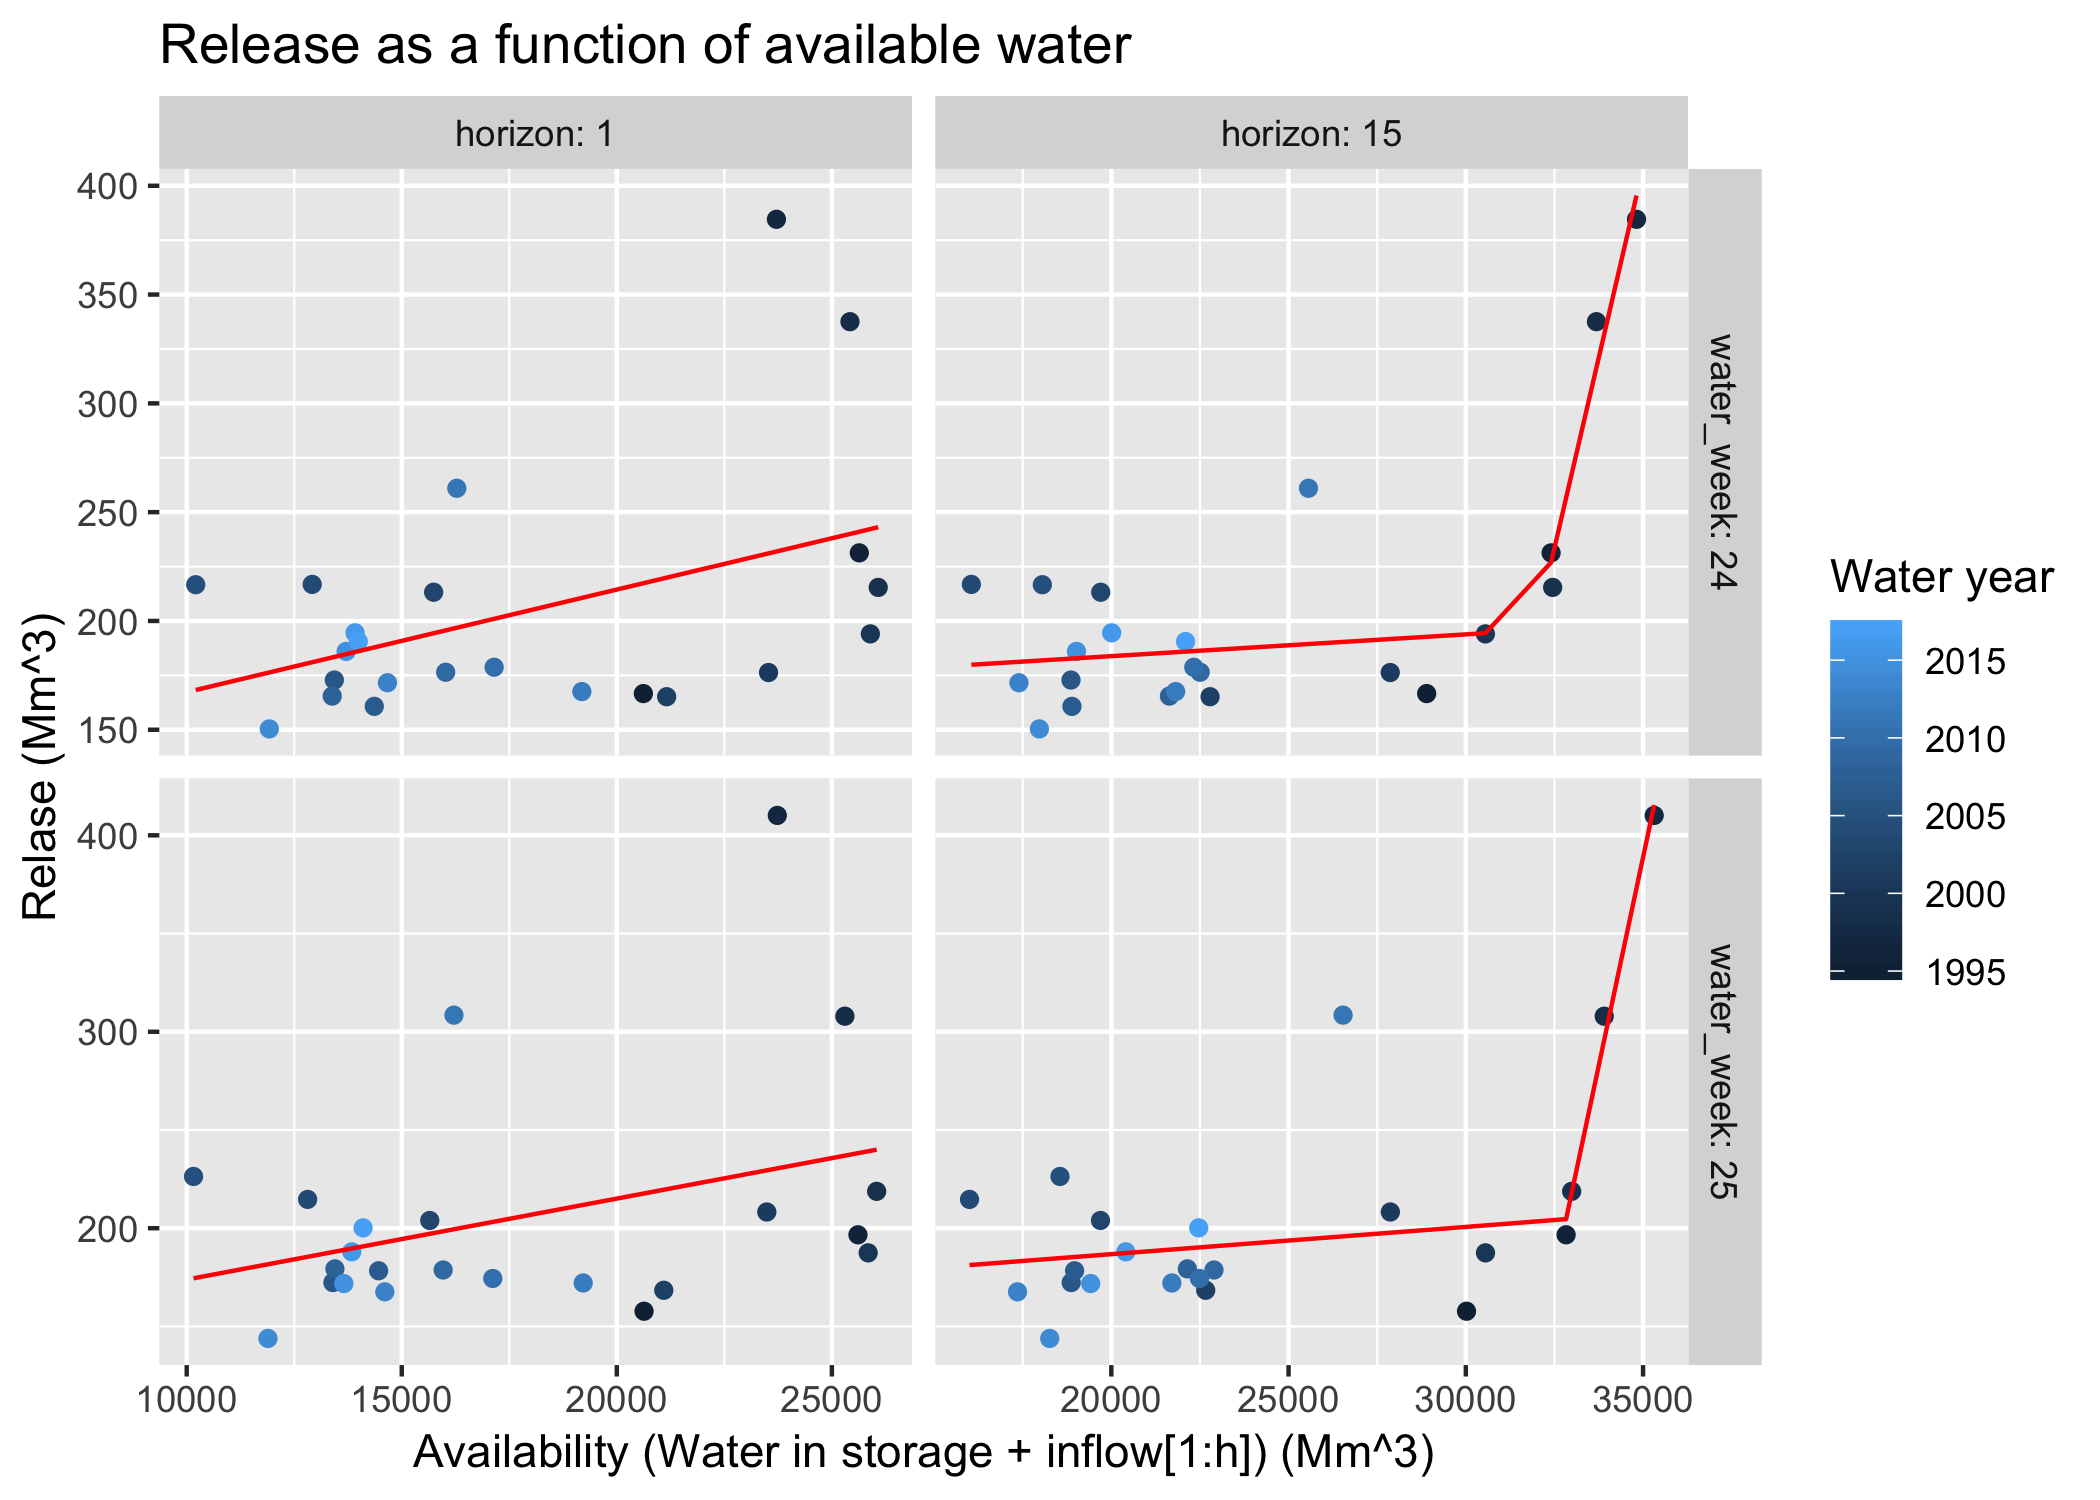
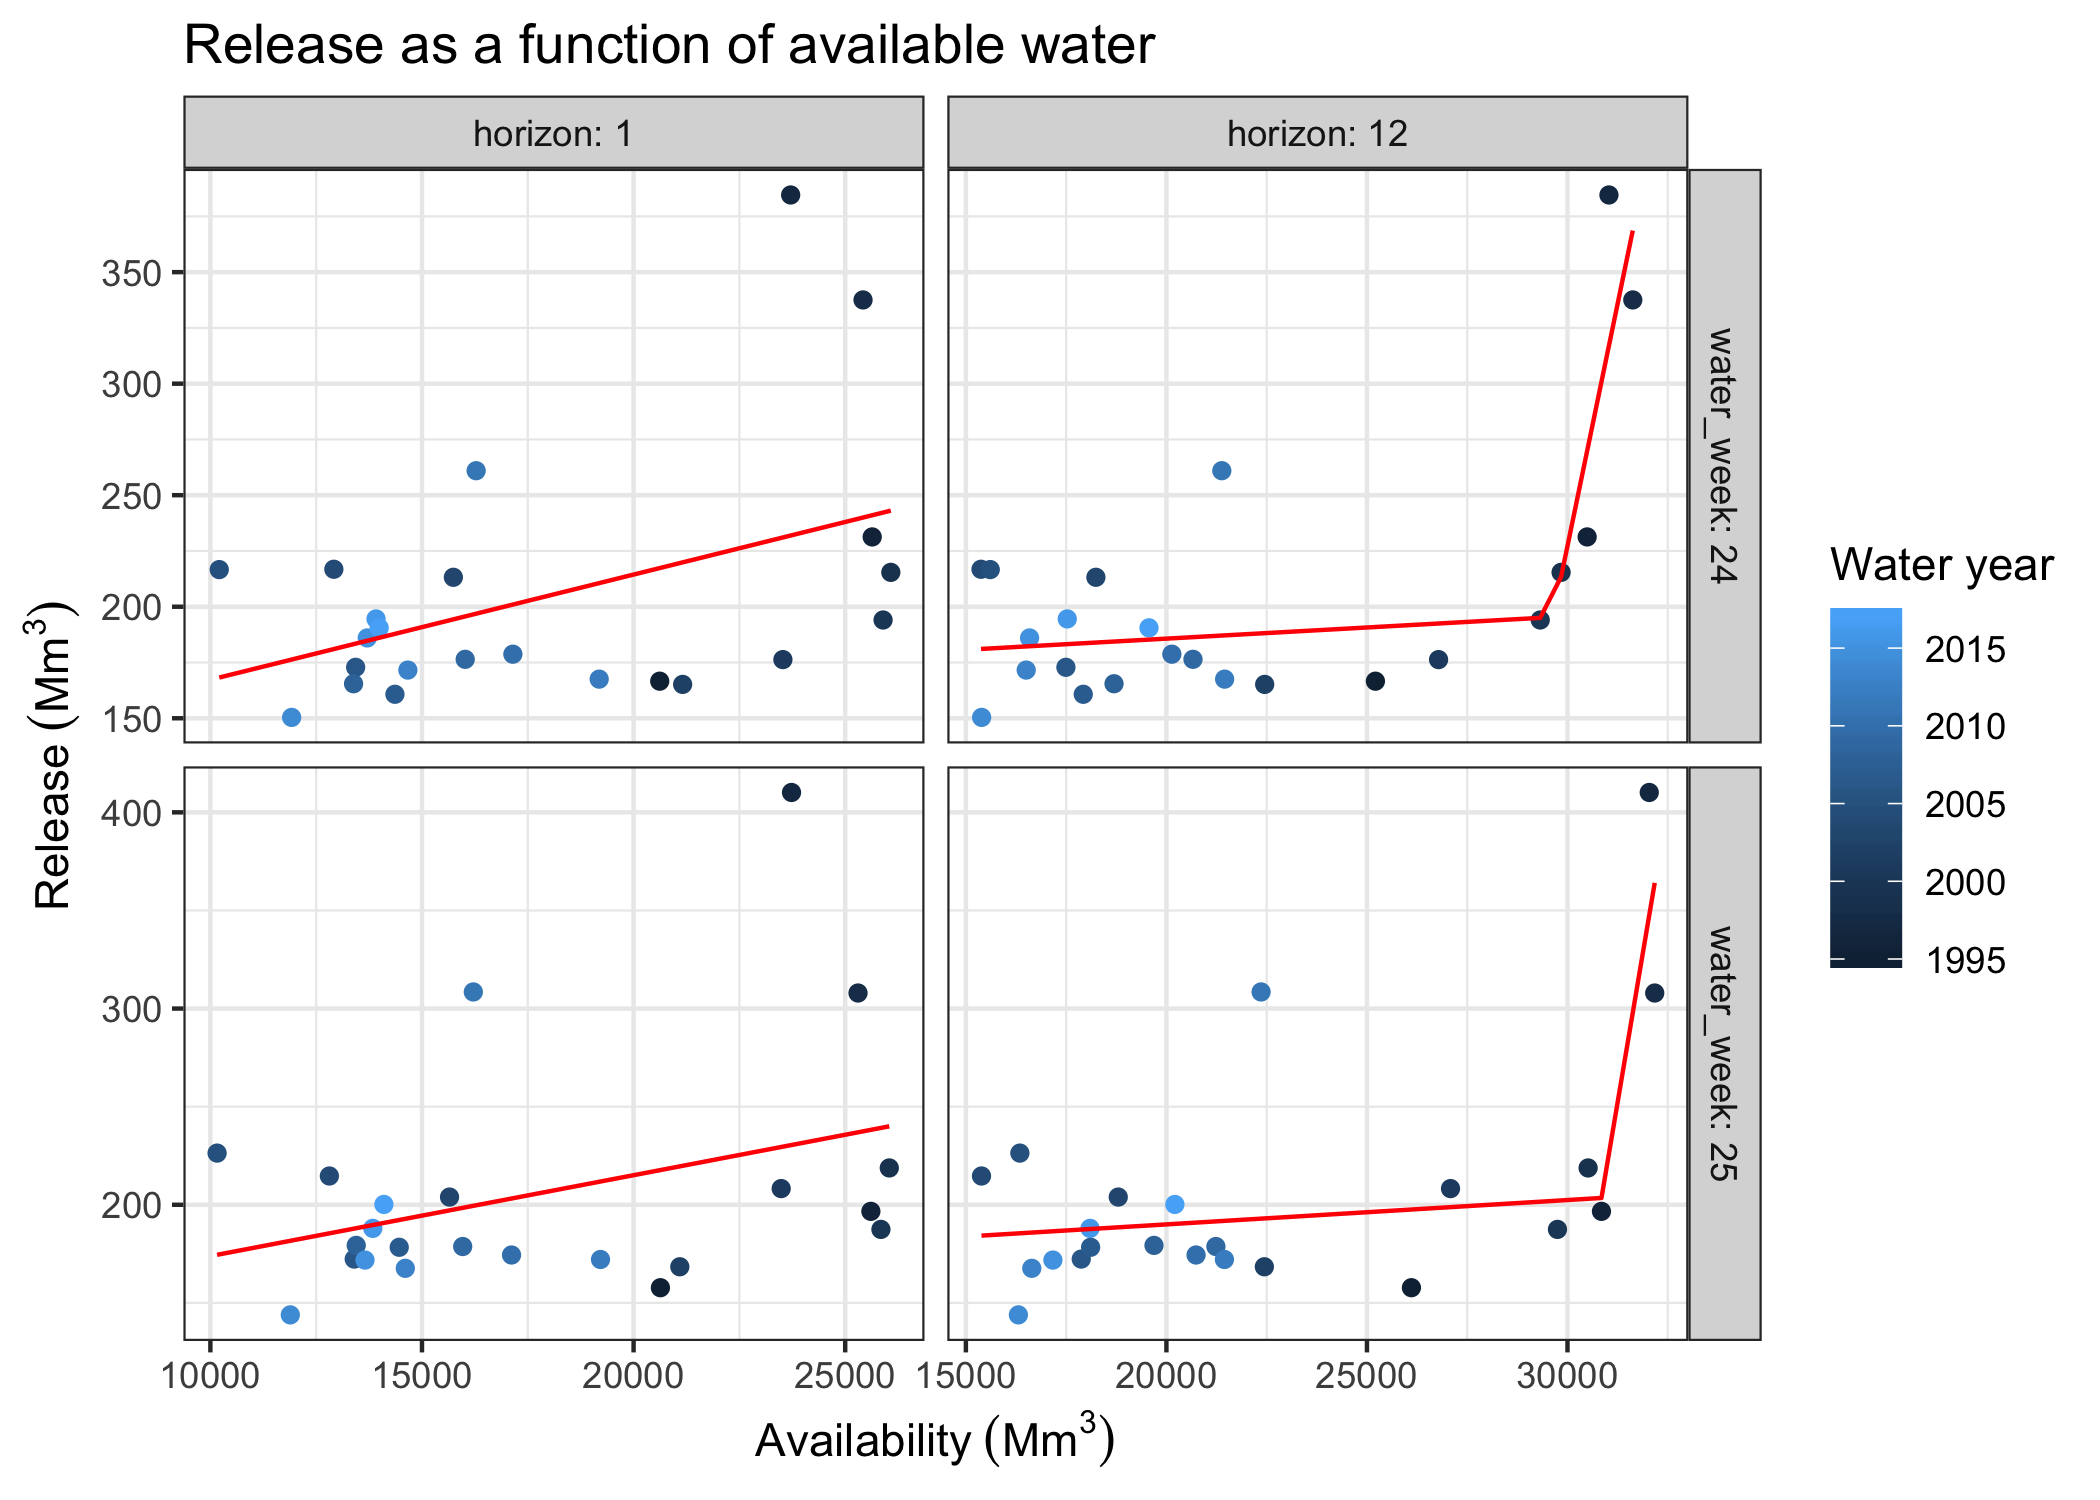
Readme updates

diff --git a/README.md b/README.md
@@ -8,7 +8,7 @@ The goal of `horizon` is to infer operating policies from daily dam and reservoi
 Installation
 ------------
 
-You can install `horizon` from this repository using devtools:
+You can install `horizon` from this repository using `devtools`:
 
 ``` r
 devtools::install_github("IMMM-SFA/horizon")
@@ -27,13 +27,13 @@ The following example walks through the derivation of weekly operating policy an
 
 ### Read and pre-process data
 
-Horizon is designed to read daily operational csv files in the format: date (yyyy-mm-dd), storage (acrefeet), release (cubic feet per second), and inflow (cubic feet per second).
+`horizon` is designed to read daily operational csv files in the format: date (yyyy-mm-dd), storage (acrefeet), release (cubic feet per second), and inflow (cubic feet per second).
 
 The `show_dams` function may be used to explore the default dataset. Running `show_dams("usbr"`) will show all US Bureau of Reclamation dams available for analysis. The data for any dam is read into the environment using `read_dam()`:
 
 ``` r
 read_dam("usbr_lakepowell") -> lakepowell_raw
-print(lakepowell_raw)
+lakepowell_raw
 #> # A tibble: 19,899 x 4
 #>    date        s_af r_cfs i_cfs
 #>    <date>     <dbl> <dbl> <dbl>
@@ -56,7 +56,7 @@ The data include daily inflow and storage. Release data are unavailable and will
 
 <img src="man/figures/README-dam data plot-1.png" width="80%" style="display: block; margin: auto;" />
 
-`Horizon` contains a variety of functions for pre-processing the data into the correct format for deriving "forecast use signatures".
+`horizon` contains a variety of functions for pre-processing the data into the correct format for deriving "forecast use signatures".
 
 #### Step 1: `convert_to_metric`
 
@@ -85,7 +85,7 @@ lakepowell_metric
 
 #### Step 2: `fill_NAs`
 
-Next we fill any small gaps in the time series:
+Next we fill any small gaps in the time series. `fill_NAs` fills gaps up to a maximum of `max_fill_gap` days (default = 10); records containing longer gaps will be excluded from the analysis at a later stage.
 
 ``` r
 lakepowell_metric %>%
@@ -109,8 +109,6 @@ lakepowell_gapfilled
 #> 10 1963-07-07 25.2   7.43    NA
 #> # ... with 19,889 more rows
 ```
-
-The above procedude will fill gaps up to a maximum of `max_fill_gap` days (default = 10), so that dam records with long gaps will be excluded from the analysis later.
 
 #### Step 3: `convert_to_water_years`
 
@@ -141,6 +139,8 @@ lakepowell_wateryrs %>%
 
 #### Step 4: `aggregate_to_water_weeks`
 
+After identifying water years, the daily time series are aggregated to water weeks 1-52 (`horizon:::gen_water_weeks()` may be used to view calendar days to water week mapping).
+
 ``` r
 lakepowell_wateryrs %>%
   aggregate_to_water_weeks() ->
@@ -163,7 +163,7 @@ lakepowell_weekly
 #> # ... with 2,823 more rows
 ```
 
-In this step, the data are aggregated to water weeks 1-52 (you can use `horizon:::gen_water_weeks()` to see how calendar days are mapped to water weeks). Some new variables are introduced, too. `s_start` and `s_end` are the starting and end storage volumes for each week, and `s_change` is the resulting change in storage. The latter is used to back-calculate new variables `i_` and `r_`, which are the inflow and release volumes **estimated** using `s_change` assuming convervation of mass (and no evaporation or other water losses).
+Some new variables are introduced, too. `s_start` and `s_end` are the starting and end storage volumes for each week, and `s_change` is the resulting change in storage. The latter is used to back-calculate new variables `i_` and `r_`, which are the inflow and release volumes **estimated** using `s_change` assuming convervation of mass (and no evaporation or other water losses).
 
 #### Step 5: `back_calc_missing_flows`
 
@@ -193,16 +193,17 @@ lakepowell_final
 #> # ... with 2,823 more rows
 ```
 
-### Read and pre-process data
+### Release-availability functions
 
-All of the above steps are rolled into the `compute_availability` function, which takes the additional step of adding the *availability* variable *for a chosen water week* and given future inflow *horizon*. The availabiltiy is simply the sum of the starting storage and the cumulative inflow out to the horizon h weeks. For example:
+All of the above steps are rolled into the `compute_availability` function, which takes the additional step of adding the **availability** variable (`a`) for a chosen water week and given future inflow horizon. The availabiltiy is simply the sum of the starting storage and the cumulative inflow out to the chosen horizon (in weeks). For example:
 
 ``` r
-"usbr_lakepowell" %>%
-  # ^^ we can simply supply the name of the dam; the function carries out pre-processing automatically.
-  compute_availability(water_week = 1, horizon = 1,
-                       min_allowable_points = 10,
-                       cutoff_year = 1995)
+compute_availability("usbr_lakepowell",
+                     # ^^ note that we can simply supply the name of the dam;
+                     # the function carries out pre-processing automatically.
+                     water_week = 1, horizon = 1,
+                     min_allowable_points = 10,
+                     cutoff_year = 1995)
 #> # A tibble: 24 x 8
 #>    water_year water_week     i     r s_start i_sum      a horizon
 #>         <dbl>      <dbl> <dbl> <dbl>   <dbl> <dbl>  <dbl>   <int>
@@ -219,14 +220,12 @@ All of the above steps are rolled into the `compute_availability` function, whic
 #> # ... with 14 more rows
 ```
 
-The function provides the required data to display the release-availability scatter for water week 1 with a horizon of 1 week ahead (from the start of the water week). These are the data we use to understand the likelihood of a given horizon being used to inform the release policy.
-
-Two additional arguments are supplied here. The argument `min_allowable_points` helps identify cases where there is insufficient data for inferring a release policy. This works by throwing an error in cases where there are less than the specified number of years of release and availability data for a given water week (here set to 10 data points). The argument `cutoff_year` filters the input data to remove all points prior to the cutoff year (here 1995). Long records likely encompass different release policies, so the use of a cutoff year improves the chances that the data are representative of one policy.
+This implementation of `compute_availability` provides the required data to display the release-availability scatter for water week 1 with a horizon of 1 week ahead (from the start of the water week). Two additional arguments are supplied. `min_allowable_points` sets a minimum number fo data points, and throws an error in cases where there are less than the specified number of years of release and availability data for a given water week (here set to 10 data points). `cutoff_year` filters the input data to remove all points prior to the cutoff year (here 1995). Long records likely encompass different release policies (and use of forecasts may be relatively recent). The cutoff helps avoid conflating the analysis with multiple operating polcies across many years of operation.
 
 `horizon` features in-built functions for plotting these data:
 
 ``` r
-hplot_ready_data("usbr_lakepowell", water_week = 1, horizon =1,
+hplot_ready_data("usbr_lakepowell", water_week = 1, horizon = 1,
                  cutoff_year = 1995)
 ```
 
@@ -235,17 +234,17 @@ hplot_ready_data("usbr_lakepowell", water_week = 1, horizon =1,
 We can add an optimized piecewise linear function with a simple call to `add_piecewise_fn`:
 
 ``` r
-hplot_ready_data("usbr_lakepowell", water_week = 1, horizon =1,
+hplot_ready_data("usbr_lakepowell", water_week = 1, horizon = 1,
                  cutoff_year = 1995,
                  add_piecewise_fn = TRUE)
 ```
 
 <img src="man/figures/README-comp av plot pw-1.png" width="80%" style="display: block; margin: auto;" />
 
-In the above case it appears that availabilty predics release quite well; the simple policy function fits, particularly for the wetter years of operation on the right of the function. This may not always be the case. The following example, where the water week is changed to week 25, we see that water availability with a horizon of 1 week is a poor predictor of the release decision:
+In the above case it appears that availabilty predics release quite well; the simple policy function fits nicely, particularly for the wetter years of operation when water availability is high. But often availability with . In the following example, where the water week is changed to week 25, we see that water availability with a horizon of 1 week is a poor predictor of the release decision:
 
 ``` r
-hplot_ready_data("usbr_lakepowell", water_week = 25, horizon =1,
+hplot_ready_data("usbr_lakepowell", water_week = 25, horizon = 1,
                  cutoff_year = 1995,
                  add_piecewise_fn = TRUE)
 ```
@@ -255,11 +254,76 @@ hplot_ready_data("usbr_lakepowell", water_week = 25, horizon =1,
 One can use the `hplot_ready_data` function to investigate multiple water weeks and horzions simultaneously:
 
 ``` r
-hplot_ready_data("usbr_lakepowell", water_week = 24:25, horizon = c(1, 15),
+hplot_ready_data("usbr_lakepowell", water_week = 24:25, horizon = c(1, 12),
                  cutoff_year = 1995,
                  add_piecewise_fn = TRUE)
 ```
 
 <img src="man/figures/README-comp av plot pw wk25 mult-1.png" width="80%" style="display: block; margin: auto;" />
 
-The result shows that water availability with a horizon of 15 weeks results in a much closer policy fit than water availability with a horizon of one week. We use this form of analysis to infer the forecast horizon that might be used in determining water release decisions at different weeks of the water year.
+Now we see that water availability with a horizon of 12 weeks results in a much closer policy fit than water availability with a horizon of one week. \*\* In deriving the foreccast use signature, we use the above form of analysis to infer the forecast horizon that might be used in determining water release decisions at different weeks of the water year.\*\*
+
+We can generate the piecewise functions for all water weeks with all candidate horizons (1 - 30 weeks ahead) simultaneously using `get_optimized_models`. An optional argument `write_to` (not used here) can be used to specify an output directory where results will be saved in `.csv` format.
+
+``` r
+get_optimized_models("usbr_lakepowell") ->
+  usbr_lakepowell_pw_all
+```
+
+**note:** this can take several minutes to run, since all 30 \* 52 piecewise functions must be optimized. `horizon` is designed to use all cores of your machine to derive these piecewise models.
+
+``` r
+usbr_lakepowell_pw_all
+#> # A tibble: 1,560 x 7
+#>         p1     p2    p3     p4  r_sq water_week horizon
+#>      <dbl>  <dbl> <dbl>  <dbl> <dbl>      <int>   <int>
+#>  1 0.0027  0.0497  189. 25950. 0.780          1       1
+#>  2 0.0068  0.0072  166. 14894. 0.421          2       1
+#>  3 0.0028  0.0977  195. 27005. 0.731          3       1
+#>  4 0.00240 0.0899  194. 26758. 0.720          4       1
+#>  5 0.0051  0.228   225. 27443. 0.825          5       1
+#>  6 0.007   0.007   183. 14821. 0.144          6       1
+#>  7 0.0017  0.429   219. 27486. 0.31           7       1
+#>  8 0.0011  0.361   218. 27345. 0.153          8       1
+#>  9 0.0054  0.0461  247. 26479. 0.555          9       1
+#> 10 0.0061  0.0061  225. 17605. 0.396         10       1
+#> # ... with 1,550 more rows
+```
+
+The result includes the parameters (`p1`, `p2`, `p3`, `p4`) and goodness-of-fit (`r_sq`, the coefficient of determination) for piecewise functions for *all* combinations of water weeks and possible inflow horizons from 1 to 30 weeks ahead. The four parameters represent the left-hand and right-hand side function slopes and break-point coordinates (`p3` = release, `p4` = availability), respectively.
+
+### Forecast use signature derivation
+
+If we plot for each water week the R-squared values as a function of the horizon, we begin to get a sense of how foresight may be driving operations:
+
+<img src="man/figures/README-plot policy fits-1.png" width="80%" style="display: block; margin: auto;" />
+
+The plot reveals an interesting shift in pattern throught he water year. Early in the water year (top row) the policy fits (y-axes) are relatively stable across horizons (x-axes); there is no strong evidence of a release policy being driven by any particular inflow horizon more than another. In such cases we infer that releases are dictated by the currently available water (i.e., water in storage plus current period inflow). The shift occurs by around week 16 (mid-January), at which point the policy fits begin to improve with longer horizons. By week 21 (end February) the evidence for foresight in operations becomes very strong, with the 15-week horizon offering a policy fit of approximately 0.8, compared to ~0.2 without foresight use (i.e., horizon = 1 week).
+
+The forecast use signature specifies the horizon used in operations for all weeks of the water year. It is created by selecting the horizon for each water week that provides the closest piecewise function fit.
+
+``` r
+usbr_lakepowell_pw_all %>% 
+  select_best_horizon() %>% 
+  hplot_selected_models()
+```
+
+<img src="man/figures/README-fcast use sig-1.png" width="80%" style="display: block; margin: auto;" />
+
+The above forecast use signature is rather noisy--which is unsurprising given some of the uncertainties in the method. However, we want to avoid inferring forecast use in cases where the policy fits are weak. We also want to avoid sharp spikes. We address the noise with some smoothing:
+
+``` r
+usbr_lakepowell_pw_all %>% 
+  select_best_horizon() %>%
+  horizon:::remove_low_rsq(rsq_cutoff = 0.2) %>%
+  # ^^ sets horizon to 1 for all cases with R-squared < rsq_cutoff
+  horizon:::despike() %>% 
+  # ^^ removes sharp spikes
+  horizon:::post_smooth() %>%
+  # ^^ gentle smoothing spline
+  hplot_selected_models() + ylim(0, 30)
+```
+
+<img src="man/figures/README-fcast use sig smth-1.png" width="80%" style="display: block; margin: auto;" />
+
+The forecast use signature suggests long-range forecast use (~3-4 months ahead) from mid-December (water week 10) through late spring, suggesting that release policy at Glen Canyon may be formed using a combination of planned upstream releases and snowpack information, which indicates the April-June snowmelt-driven inflows.
